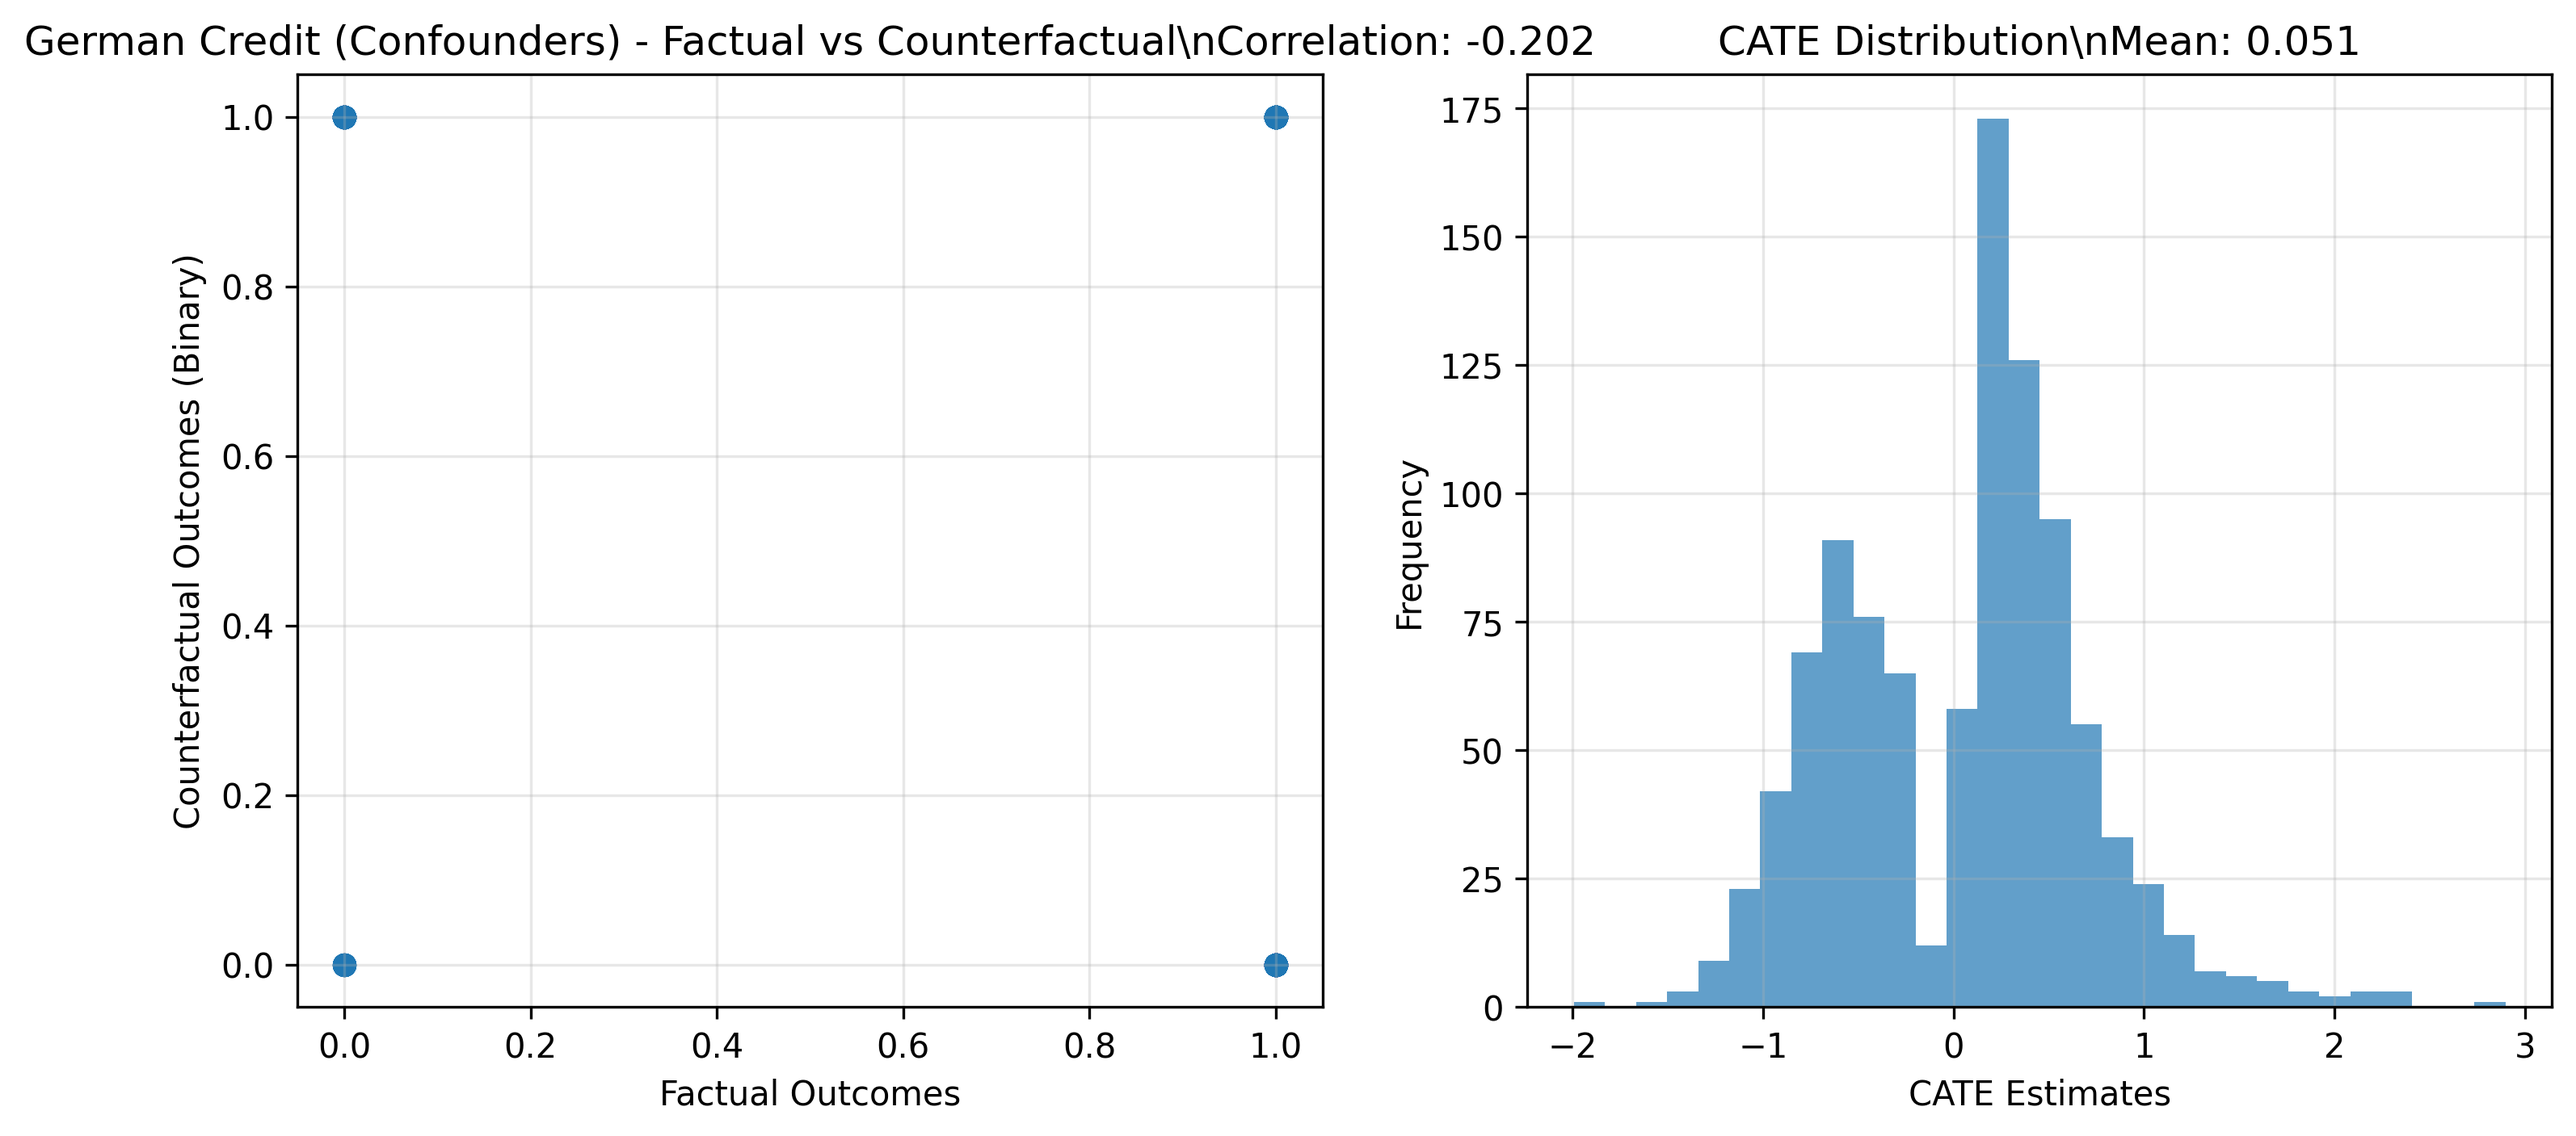
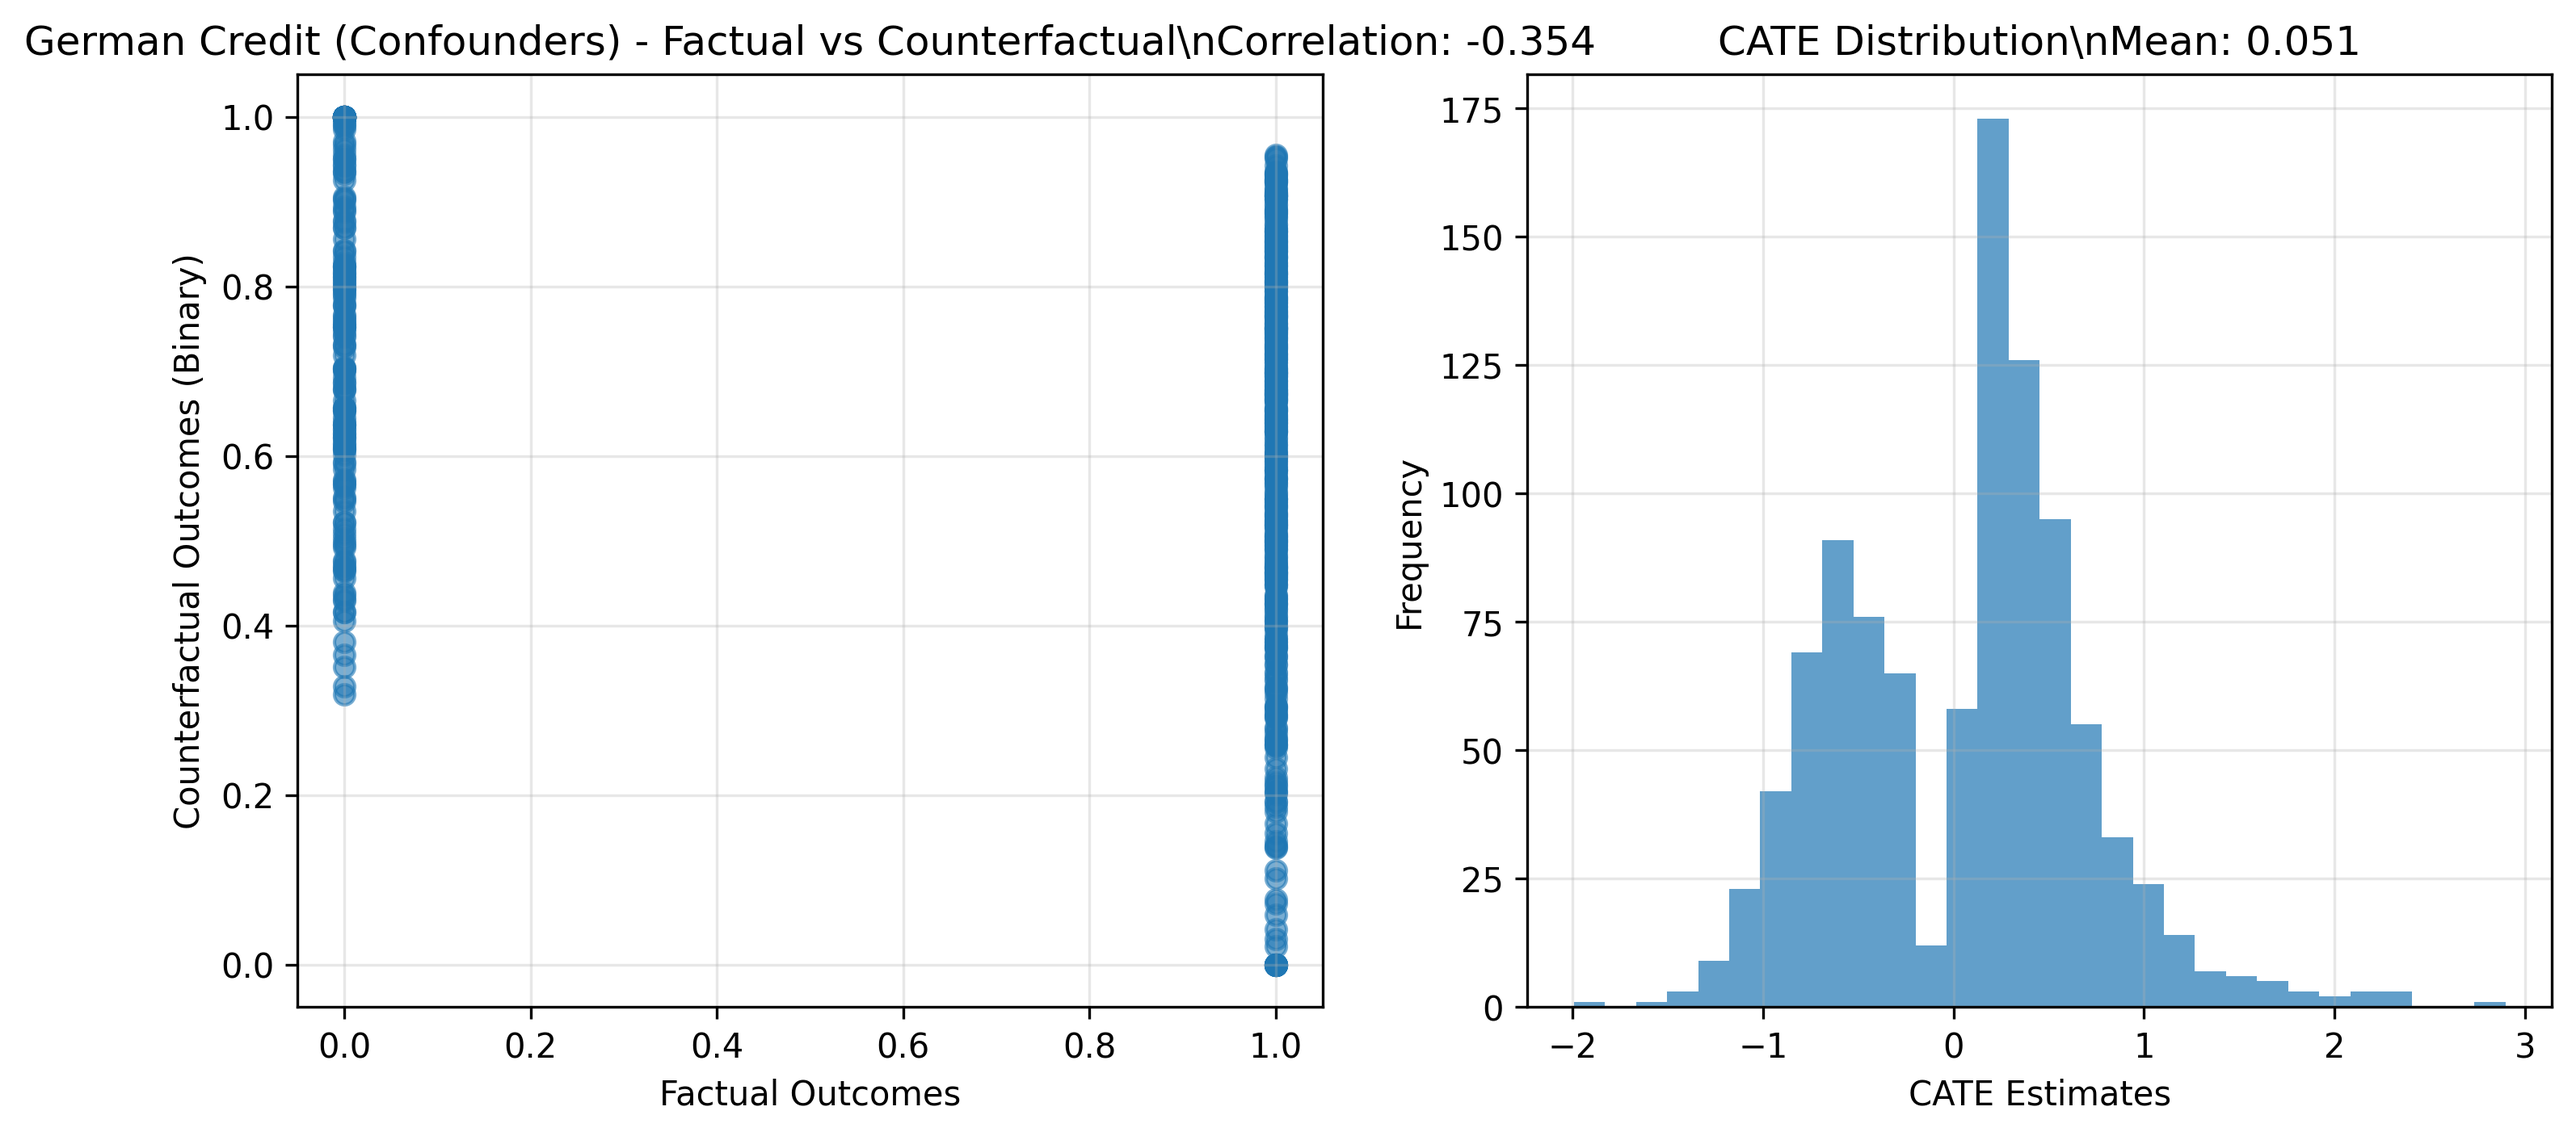
Functional complete

diff --git a/classification-multicase/main_cate_counterfactuals.py b/classification-multicase/main_cate_counterfactuals.py
@@ -282,28 +282,28 @@ def save_results(data, cf_results, dataset_name):
     train_factual = data['train_y']
     train_counterfactual = cf_results['train_cf_cate']
     
-    # For classification, convert probabilities to binary for correlation
-    train_cf_binary = np.round(train_counterfactual).astype(int)
+    # Keep counterfactuals as continuous probabilities (no rounding)
+    train_cf_continuous = train_counterfactual
     
     # Remove NaN values for correlation
-    valid_mask = ~(np.isnan(train_factual) | np.isnan(train_cf_binary))
+    valid_mask = ~(np.isnan(train_factual) | np.isnan(train_cf_continuous))
     correlation = np.nan
-    if valid_mask.sum() > 1 and np.std(train_factual[valid_mask]) > 0 and np.std(train_cf_binary[valid_mask]) > 0:
-        correlation = corrcoef(train_factual[valid_mask], train_cf_binary[valid_mask])[0][1]
+    if valid_mask.sum() > 1 and np.std(train_factual[valid_mask]) > 0 and np.std(train_cf_continuous[valid_mask]) > 0:
+        correlation = corrcoef(train_factual[valid_mask], train_cf_continuous[valid_mask])[0][1]
     
     # Compare with manual counterfactuals if available
     correlation_with_manual = np.nan
     if data['train_cf_manual'] is not None:
         manual_cf = data['train_cf_manual']
-        if len(manual_cf) == len(train_cf_binary):
-            correlation_with_manual = corrcoef(train_cf_binary, manual_cf)[0][1]
+        if len(manual_cf) == len(train_cf_continuous):
+            correlation_with_manual = corrcoef(train_cf_continuous, manual_cf)[0][1]
     
     # Generate correlation plot
     plt.figure(figsize=(12, 5))
     
     # Plot 1: Factual vs Counterfactual
     plt.subplot(1, 2, 1)
-    plt.scatter(train_factual, train_cf_binary, alpha=0.6)
+    plt.scatter(train_factual, train_cf_continuous, alpha=0.6)
     plt.xlabel('Factual Outcomes')
     plt.ylabel('Counterfactual Outcomes (Binary)')
     plt.title(f'{dataset_name} - Factual vs Counterfactual\\nCorrelation: {correlation:.3f}' if not np.isnan(correlation) else f'{dataset_name} - Factual vs Counterfactual\\nCorrelation: NaN')
@@ -312,7 +312,7 @@ def save_results(data, cf_results, dataset_name):
     # Plot 2: Manual vs CATE counterfactuals (if available)
     plt.subplot(1, 2, 2)
     if data['train_cf_manual'] is not None:
-        plt.scatter(data['train_cf_manual'], train_cf_binary, alpha=0.6)
+        plt.scatter(data['train_cf_manual'], train_cf_continuous, alpha=0.6)
         plt.plot([0, 1], [0, 1], 'r--', lw=2)
         plt.xlabel('Manual Counterfactuals')
         plt.ylabel('CATE Counterfactuals')
@@ -372,8 +372,8 @@ def main():
     
     # Compare with manual counterfactuals if available
     if data['train_cf_manual'] is not None:
-        train_cf_binary = np.round(cf_results['train_cf_cate']).astype(int)
-        correlation_manual = corrcoef(train_cf_binary, data['train_cf_manual'])[0][1]
+        train_cf_continuous = cf_results['train_cf_cate']
+        correlation_manual = corrcoef(train_cf_continuous, data['train_cf_manual'])[0][1]
         print(f"Correlation with manual counterfactuals: {correlation_manual:.4f}")
     
     print(f"\\nResults saved to: {results_folder}")

diff --git a/classification-multicase/fairness_analysis.py b/classification-multicase/fairness_analysis.py
@@ -61,7 +61,7 @@ def compute_models_once(X, y, treatment_col='T', dataset_name="synthetic_class_d
         _global_mu1 = np.full(len(_global_X_features), np.mean(y[_global_T==1]) if len(y[_global_T==1]) > 0 else 0.5)
 
 def doubly_robust_ate_cate_classification(y, use_test_portion=False):
-    """Calculate ATE and CATE using pre-computed global models for classification"""
+    """Calculate ATE and CATE using pre-computed global models treating predictions as continuous"""
     global _global_ps, _global_mu0, _global_mu1, _global_T
     
     if use_test_portion:
@@ -80,7 +80,7 @@ def doubly_robust_ate_cate_classification(y, use_test_portion=False):
     # Individual CATE estimates using doubly robust method for classification
     cate_dr = ((T*(y - mu1)/ps + mu1) - ((1-T)*(y - mu0)/(1-ps) + mu0))
     
-    # Calculate ATE and CATE statistics
+    # Calculate ATE and CATE statistics (original classification approach)
     ate_dr = np.mean(cate_dr)
     cate_mean = np.mean(cate_dr**2)
     
